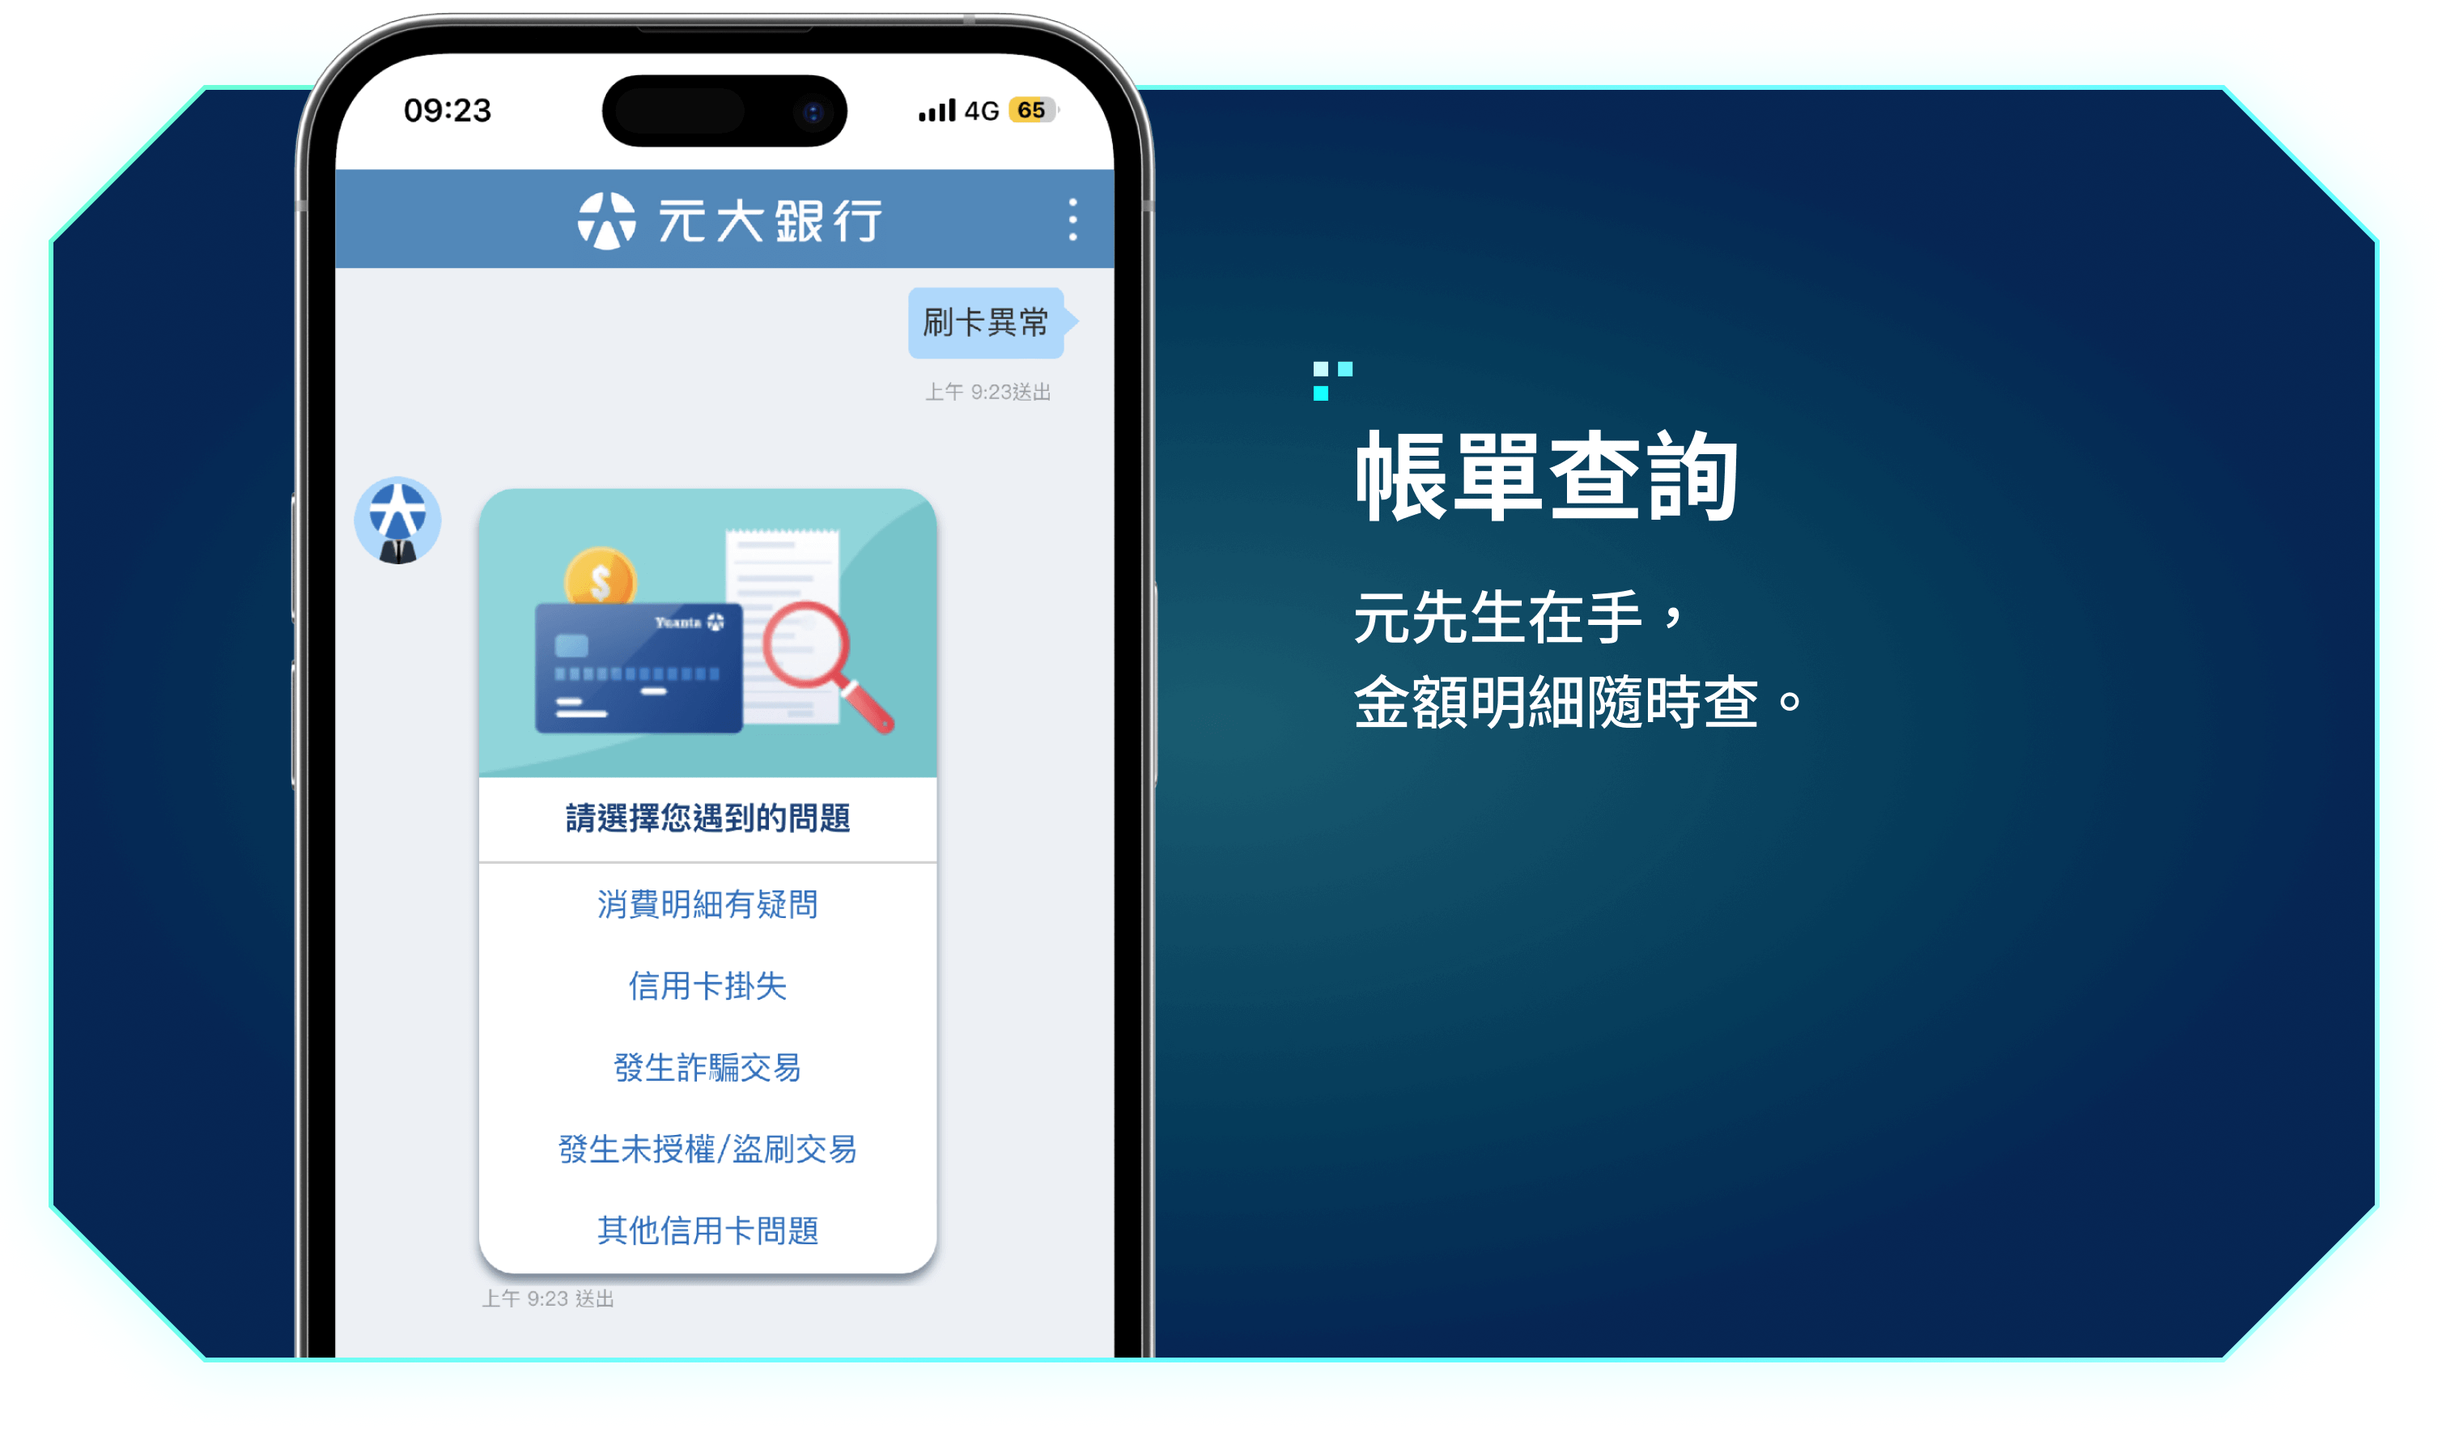
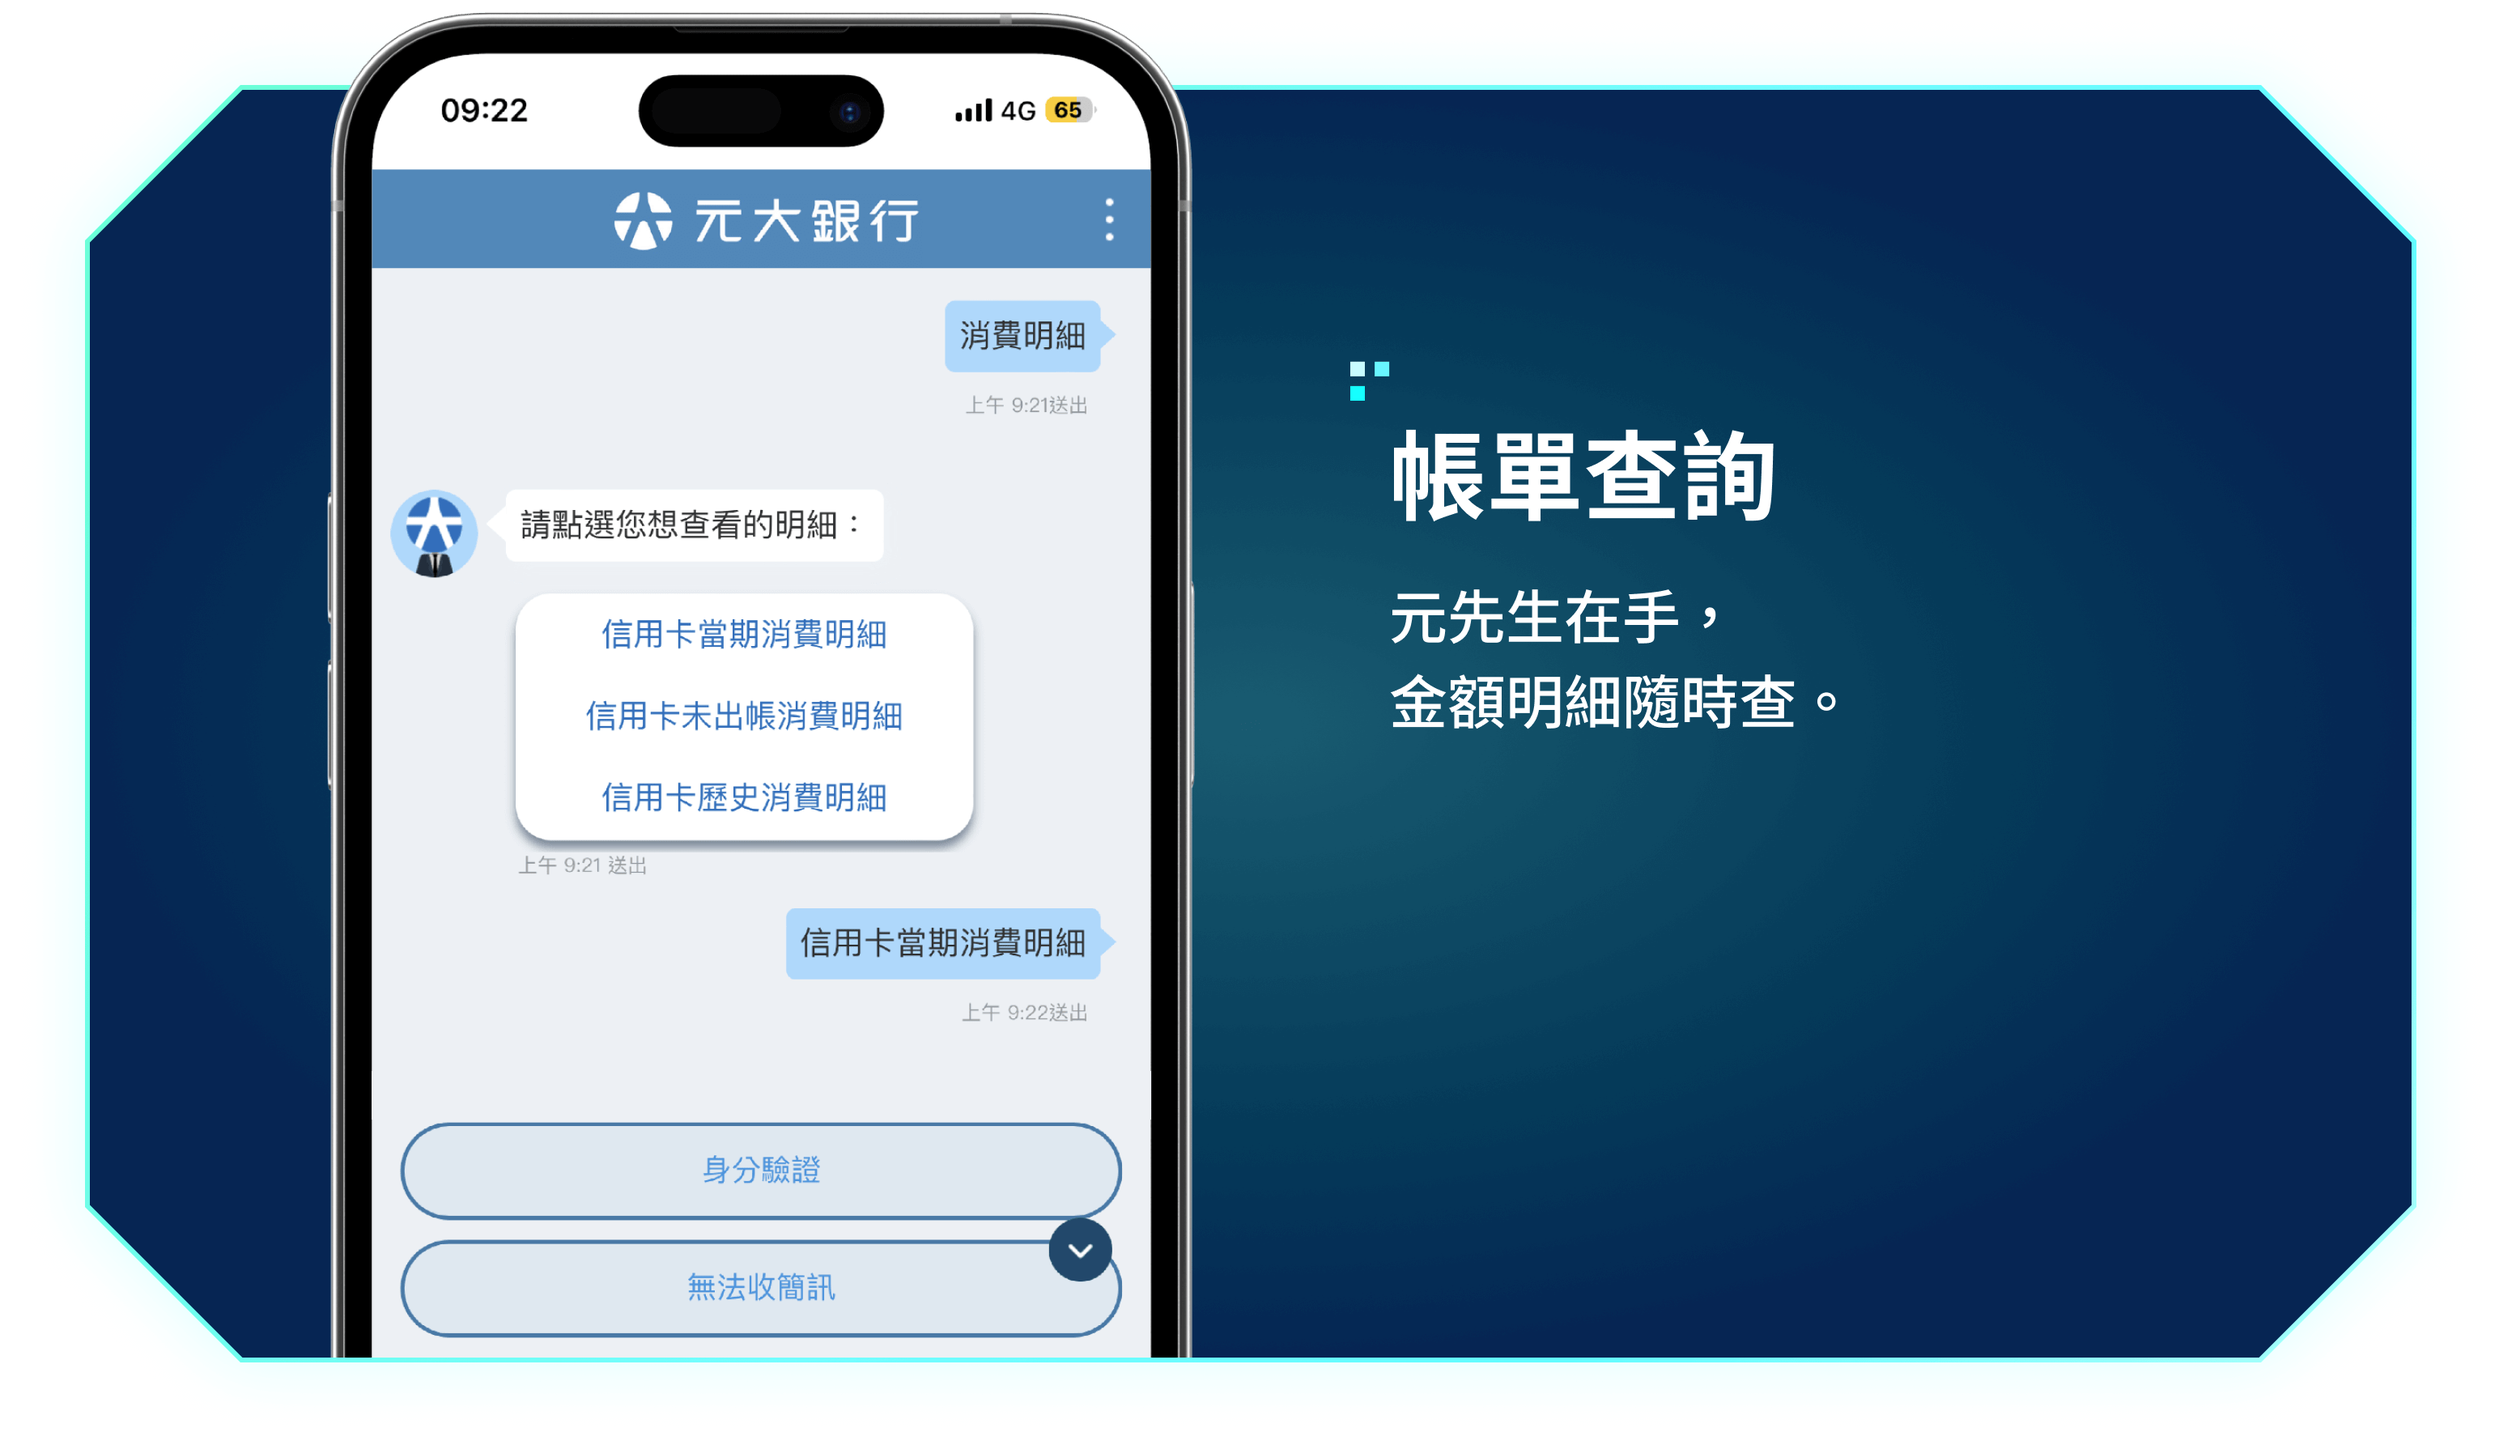
0711 段落
完成度60%

diff --git a/sample04/assets/css/style.css b/sample04/assets/css/style.css
@@ -303,8 +303,9 @@
 .creditCard_menu {
     margin-top: 20px;
     display:flex;
-    width:65%;
+    width:75%;
     height:60px;
+    gap:1.5vw;
 }
 .creditCard_menu a:hover > span.bt_l {
     background-image: url(../images/button/bt_l_hover.png);
@@ -344,7 +345,9 @@
     background-repeat: no-repeat;
     background-position: center;
     width: 100%;
-    height:60px;
+    height:4vw;
+    font-size: 1.5vw;
+    font-weight: 400;
 }
 .card_Service[data-bg="service1"],
 .card_Service[data-bg="service2"],
@@ -376,11 +379,14 @@
 .card_Service.active[data-bg="service4"]{
     background-color: #94fffa;
     color:#013397;
-    border:#013397 solid 1px;
+    border:#013397 solid 2px;
     box-shadow: 1px 2px 3px #94fffa ;
 }
-.card_Service.active[data-bg="service1"] > .bt_l{
-
+.card_Service.active[data-bg="service1"] > span.bt_l{
+    background-image: url(../images/button/bt_l_hover.png);
+}
+.card_Service.active[data-bg="service1"] > span.bt_r{
+    background-image: url(../images/button/bt_r_hover.png);
 }
 /* .card_Service.active[data-bg="service1"] {
     background-image: url('../images/button/creditCard_service_1_active.png');
@@ -455,12 +461,12 @@
         justify-content: center;
         align-items: center;
    }
-   .space{
+   .serviceImg > .space{
         width:20vw;
         height:5vw;
    }
    .creditCard_button {
-        margin-top: 2vw;
+        margin-top: 9vw;
         margin-left: 2vw;
     }
    .agentFooterPic{
@@ -502,9 +508,7 @@
         width: 55vw;
         height: 43vw;
     }
-    .block_boss{
-        
-    }
+    
     .block_boss > .agentButton{
         display: block;
         margin-top:-6vh;
@@ -538,10 +542,14 @@
     .creditCard_menu {
         width: 100%;
         flex-wrap: wrap; /* 允許換行 */
+        row-gap: 1vw;
+        column-gap: 1vw;
+        height: 14vw;
     }
     .creditCard_menu a {
         flex: 0 0 calc(50% - 10px); /* 每個按鈕佔50%的寬度，減去間距 */
         margin-bottom: 10px; /* 下方間距 */
+        font-size: 3vw;
     }
     .banner{
         height: 1200px;
@@ -622,6 +630,42 @@
         margin-top: 5vw;
         margin-bottom: -2vw;
    }
+   
+    #content1 > .serviceImg{
+        background-image: url(../images/background/card_1b.png);
+    }
+    #content2 > .serviceImg{
+        background-image: url(../images/background/card_2b.png);
+    }
+    #content3 > .serviceImg{
+        background-image: url(../images/background/card_3b.png);
+    }
+    #content4 > .serviceImg{
+        background-image: url(../images/background/card_4b.png);
+    }
+    .serviceImg{
+        display: flex;
+        justify-content: end;
+        flex-direction: column;
+        align-items: center;
+        width: 100%;
+        height: 90vw;
+    }
+    .serviceImg > .hint{
+        display: flex;
+        flex-direction: column;
+        width: 50%;
+        height: 18vw;
+    }
+
+    .serviceImg > .space,.serviceImg > .hint > .space{
+        width:24vw;
+        height:5vw;
+    }
+    .creditCard_button{
+        width:25vw;
+        height:7vw;
+    }
 }
 @media screen and (max-width: 980px){
     .test{
@@ -688,10 +732,15 @@
     .creditCard_menu {
         width: 100%;
         flex-wrap: wrap; /* 允許換行 */
+        row-gap: 1vw;
+        column-gap: 2vw;
+        height: 14vw;
     }
     .creditCard_menu a {
         flex: 0 0 calc(50% - 10px); /* 每個按鈕佔50%的寬度，減去間距 */
         margin-bottom: 10px; /* 下方間距 */
+        font-size: 3vw;
+        font-weight: 700;
     }
     .banner{
         background-image: url(../images/banner/KVBackground_768.png);
@@ -756,6 +805,41 @@
         background-position: center;
     } */
     /* end Block_service */
+    #content1 > .serviceImg{
+        background-image: url(../images/background/card_1b.png);
+    }
+    #content2 > .serviceImg{
+        background-image: url(../images/background/card_2b.png);
+    }
+    #content3 > .serviceImg{
+        background-image: url(../images/background/card_3b.png);
+    }
+    #content4 > .serviceImg{
+        background-image: url(../images/background/card_4b.png);
+    }
+    .serviceImg{
+        display: flex;
+        justify-content: end;
+        flex-direction: column;
+        align-items: center;
+        width: 100%;
+        height: 90vw;
+    }
+    .serviceImg > .hint{
+        display: flex;
+        flex-direction: column;
+        width: 50%;
+        height: 18vw;
+    }
+
+    .serviceImg > .space,.serviceImg > .hint > .space{
+        width:24vw;
+        height:5vw;
+    }
+    .creditCard_button{
+        width:25vw;
+        height:7vw;
+    }
     .content {
         margin-top:100px;
     }
@@ -772,6 +856,9 @@
         margin-top: 10vw;
         margin-bottom: -5vw;
    }
+   .card_Service{
+        height:10vh;
+    }
 }
 @media screen and (max-width: 820px){
     .test{
@@ -916,6 +1003,44 @@
     .sectionA_MenuA{
         background-image:url(../images/common/sectionA_768.png);
     }
+    #content1 > .serviceImg{
+        background-image: url(../images/background/card_1b.png);
+    }
+    #content2 > .serviceImg{
+        background-image: url(../images/background/card_2b.png);
+    }
+    #content3 > .serviceImg{
+        background-image: url(../images/background/card_3b.png);
+    }
+    #content4 > .serviceImg{
+        background-image: url(../images/background/card_4b.png);
+    }
+    .serviceImg{
+        display: flex;
+        justify-content: end;
+        flex-direction: column;
+        align-items: center;
+        width: 100%;
+        height: 90vw;
+    }
+    .serviceImg > .hint{
+        display: flex;
+        flex-direction: column;
+        width: 50%;
+        height: 18vw;
+    }
+
+    .serviceImg > .space,.serviceImg > .hint > .space{
+        width:24vw;
+        height:5vw;
+    }
+    .creditCard_button{
+        width:25vw;
+        height:7vw;
+    }
+    .card_Service{
+        height:10vh;
+    }
 }
 @media screen and (max-width: 768px){
     .test{
@@ -1048,6 +1173,9 @@
     }
     .sectionA_MenuA{
         background-image:url(../images/common/sectionA_768.png);
+    }
+    .card_Service{
+        height:9vh;
     }
 }
 @media screen and (max-width: 680px){

diff --git a/sample04/index.html b/sample04/index.html
@@ -119,6 +119,7 @@
                     <div class="row">
                         <div class="col-lg-12">
                             <div class="sectionA_MenuA">
+                                <div class="space"></div>
                                 <div class="serviceA_MenuButton">
                                     <a href="aaa"><span class="bt_l"></span>線上申辦<span class="bt_r"></span></a>
                                     <a href="aaa"><span class="bt_l"></span>信用卡熱門<span class="bt_r"></span></a>
@@ -146,16 +147,16 @@
                                 <div class="creditCard_title"></div>
                                 <div class="creditCard_menu">
                                     <a href="#" onclick="showContent(event, 1, this)" class="card_Service active" data-bg="service1">
-                                        <span class="bt_l"></span>線上申辦<span class="bt_r"></span>
+                                        <span class="bt_l"></span>帳單查詢<span class="bt_r"></span>
                                     </a>
                                     <a href="#" onclick="showContent(event, 2, this)" class="card_Service" data-bg="service2">
-                                        <span class="bt_l"></span>線上申辦<span class="bt_r"></span>
+                                        <span class="bt_l"></span>帳單繳款<span class="bt_r"></span>
                                     </a>
                                     <a href="#" onclick="showContent(event, 3, this)" class="card_Service" data-bg="service3">
-                                        <span class="bt_l"></span>線上申辦<span class="bt_r"></span>
+                                        <span class="bt_l"></span>額度調整<span class="bt_r"></span>
                                     </a>
                                     <a href="#" onclick="showContent(event, 4, this)" class="card_Service" data-bg="service4">
-                                        <span class="bt_l"></span>線上申辦<span class="bt_r"></span>
+                                        <span class="bt_l"></span>刷卡疑慮<span class="bt_r"></span>
                                     </a>
                                 </div>
                                 <div id="content1" class="content active">
@@ -219,7 +220,7 @@
             <section class="section ccc">
 
             </section>
-            <!-- <section class="section Block_footerInf">
+            <section class="section Block_footerInf">
                 <div class="container">
                     <div class="row">
                         <div class="col-lg-12">
@@ -242,7 +243,7 @@
                         </div>
                     </div>
                 </div>
-            </section> -->
+            </section>
      <!-- 內容區結束 -->
             <!-- 元先生智能助理 -->
             <div class="yuantaman">
